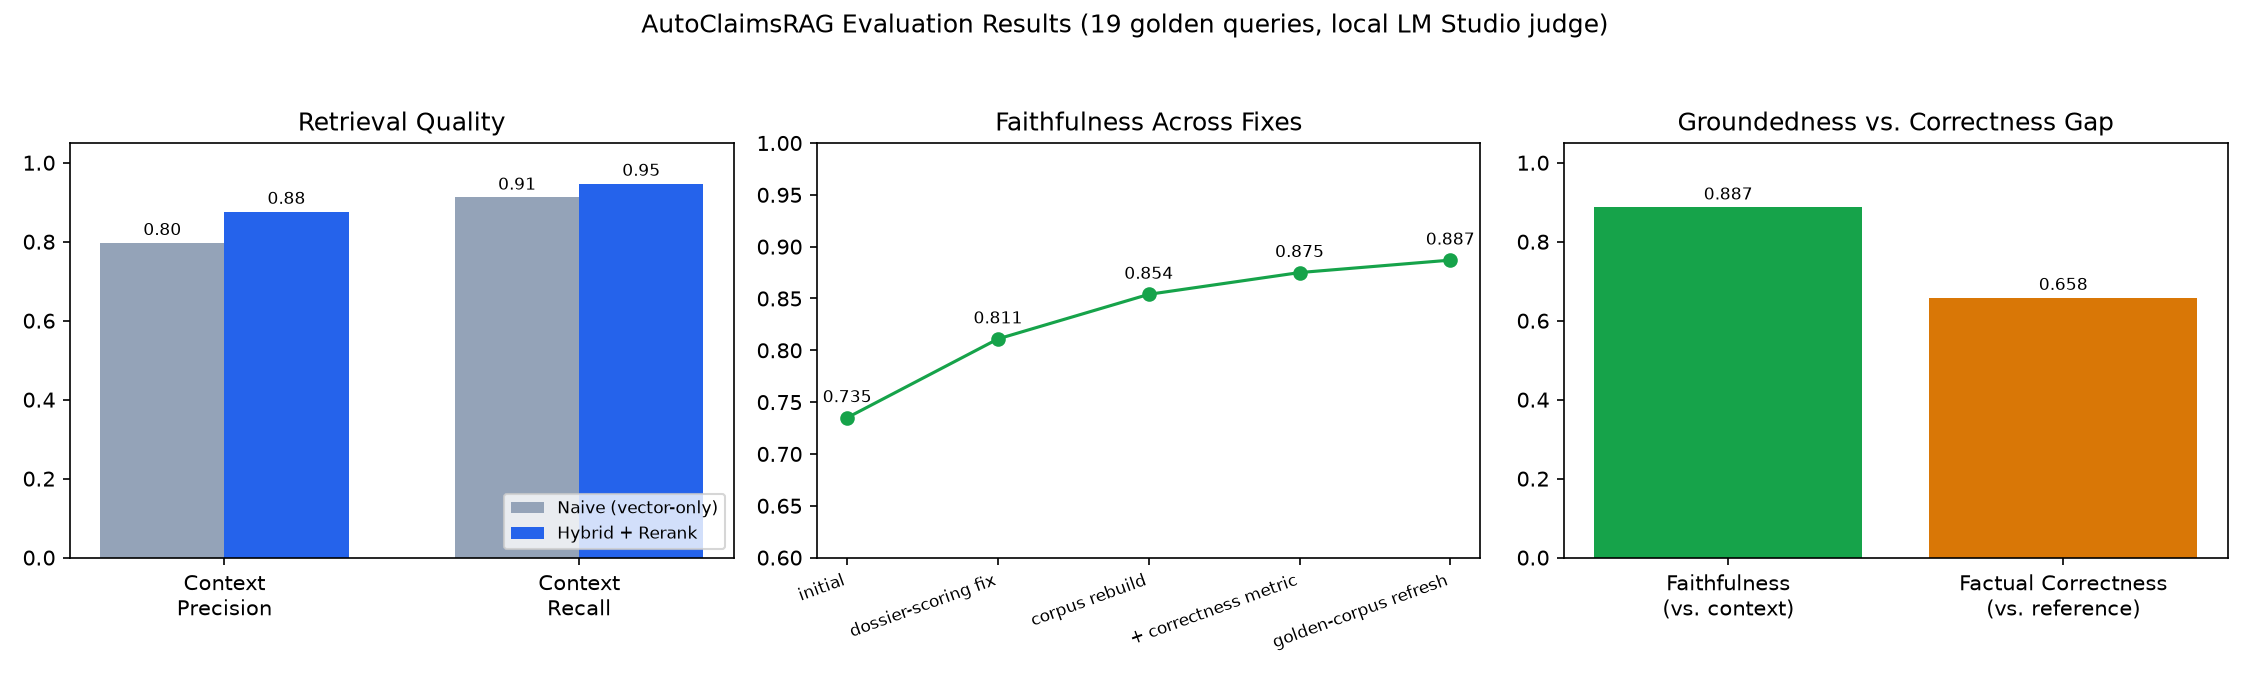
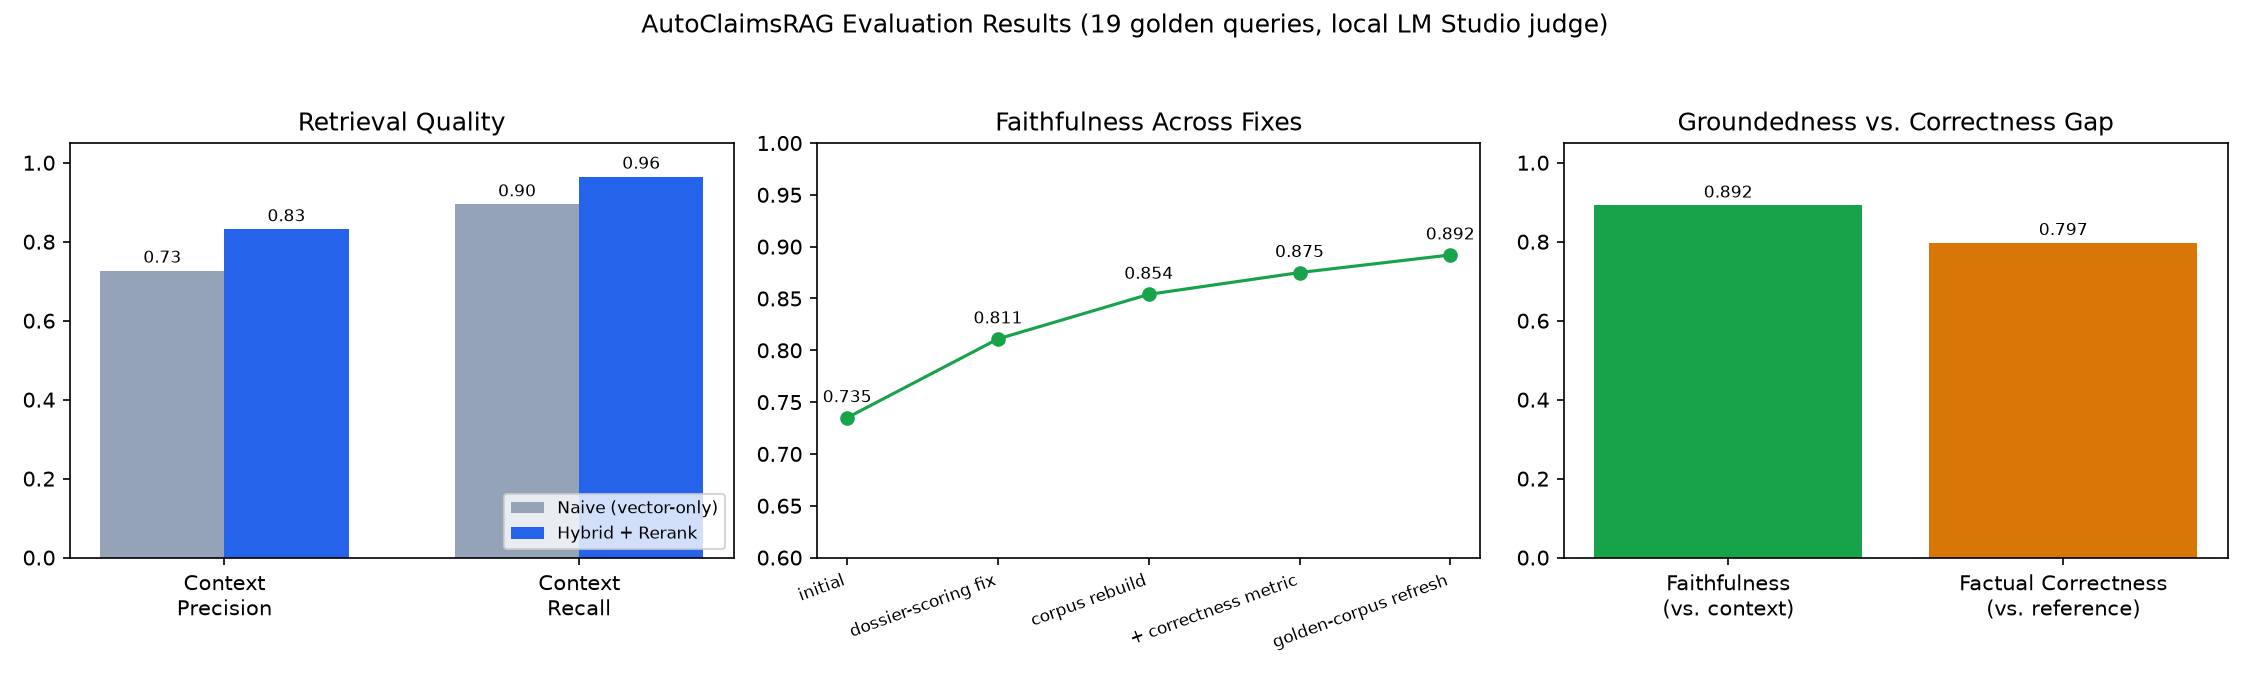
docs: record the 2026-09-22 eval run and refresh stale README numbers
Session protocol close-out for the eval rerun.

CLAUDE.md: Current State now reflects that live answer-quality
evaluation was rerun; Known Issues carries the 2026-09-22 figures as the
superseding same-model baseline; What's Next narrows to a confirming run
plus the still-unrun adversarial evaluation.

README: the evaluation table still showed 0.797/0.876, Faithfulness
0.887, Correctness 0.658 - the pre-model-swap session-34 run on the
since-deleted qwen2.5-14b-instruct-1m, which Known Issues already
records as neither comparable nor reproducible. Replaced with the
2026-09-22 numbers and stamped with run date and judge model so the
table and eval/results.json cannot silently diverge again. The
hybrid-vs-naive sentence now cites this run's 9-of-19 better, 1 worse.
assets/eval_results.png regenerated from the new results.json.

portfolio-hardening.md: the outstanding evidence item is marked partly
closed, with adversarial and human-reviewed cases explicitly still open.

build-history.md: session 39 entry.

diff --git a/CLAUDE.md b/CLAUDE.md
@@ -232,7 +232,7 @@ September 6: portfolio hardening implemented and verified; see [validation and r
 
 ## Current State
 
-As of September 6, the authoritative state is [portfolio-hardening.md](docs/portfolio-hardening.md): factory-owned dependencies, tenant/claim authorization, bounded parsing, concurrent audit appends, immutable versioned sources, privacy defaults, and isolated PR CI are implemented. Live answer-quality evaluation was not rerun because no language model was loaded. Earlier accomplishments below describe their original sessions, not current deployment or certification.
+As of September 6, the authoritative state is [portfolio-hardening.md](docs/portfolio-hardening.md): factory-owned dependencies, tenant/claim authorization, bounded parsing, concurrent audit appends, immutable versioned sources, privacy defaults, and isolated PR CI are implemented. Live answer-quality evaluation **was rerun on 2026-09-22** with the generator/judge loaded and `SIMULATION_MODE=false` — see the baseline entry under Known Issues and `docs/portfolio-hardening.md`. Adversarial and human-reviewed cases remain unrun. Earlier accomplishments below describe their original sessions, not current deployment or certification.
 
 ### Confirmed Working
 * Ingestion of PDF, DOCX, XLSX, and TXT files (parent/child chunking + FTS5 index), producing real binaries in `stored_documents/` and clean, non-duplicated chunks.
@@ -262,7 +262,7 @@ As of September 6, the authoritative state is [portfolio-hardening.md](docs/port
 * **Phase-1 vector leg deliberately does not use the HNSW index**: it runs an exact grouped `max(child cosine)` scan so parity with SQLite's brute-force search stays as close to 1.0 as possible (correctness-first). A KNN-accelerated path is the natural Phase-6 optimization once parity is locked — the HNSW index is already created.
 * `eval/results.json`'s Context Precision/Recall numbers reflect single-shot retrieval via `/api/eval/search` only — they do **not** include the guaranteed claim-chunk inclusion described below, since that's a property of the full agentic pipeline (`/api/chat`), not of raw `search_similarity`. Re-scoring those two metrics against the real pipeline is unscoped work, not a bug; the eval harness deliberately isolates retrieval-strategy comparison from full-pipeline behavior. Factual Correctness (Phase 11) *is* scored against the real `/api/chat` pipeline, so it's the metric that actually reflects the guaranteed-dossier fix.
 * Faithfulness and Factual Correctness are both judged by a single local 14B model — a real tradeoff vs. a larger hosted judge, made deliberately to keep evaluation consistent with the "runs entirely locally" constraint. Documented as a limitation in README.md rather than treated as a defect. Concretely: judge NLI-verification flakiness sporadically produces outlier 0.0 scores on manually-verified-correct answers, and Faithfulness moved 0.854→0.875→0.823→0.845→0.754→0.887 across runs with no code changes to that metric — treat single-run scores as noisy, trust trends across reruns. Latest run (2026-09-03, after the `RERANK_CANDIDATE_POOL` 50→15 tuning, session 34): Context Precision naive=0.797/hybrid=0.876, Context Recall naive=0.912/hybrid=0.947, Faithfulness 0.887, Factual Correctness 0.658 — all within the normal noise band established above; no eval-verified regression from the pool change (see Session Log session 34 for the full before/after, including the `pool=8` regression that was caught and reverted before shipping).
-* **Eval numbers before and after 2026-09-03 are not comparable — the judge AND generator model changed.** `eval/results.json` up to that date was produced with `qwen2.5-14b-instruct-1m`; that model has since been deleted from the maintainer's machine, so those numbers cannot be reproduced. The app sends `model: "local-model"` (`default_model = settings.llm_model or "local-model"`, `app_factory.py`), so LM Studio serves **whatever is currently loaded** — meaning the generator silently follows the loaded model, and `eval/run_eval.py`'s judge is `/v1/models` `data[0]`. Both are now `qwen3-coder-30b-a3b-instruct`. Current baseline: naive P/R 0.779/0.947, hybrid+rerank P/R **0.885/0.965**, Faithfulness 0.812, Correctness 0.749, 1917s. Per-query correctness moved by up to ±0.8 versus the old run purely from the model swap, so **never read a cross-judge delta as a regression**; re-baseline instead whenever the loaded model changes. Set `LLM_MODEL` explicitly if the generator ever needs pinning.
+* **Eval numbers before and after 2026-09-03 are not comparable — the judge AND generator model changed.** `eval/results.json` up to that date was produced with `qwen2.5-14b-instruct-1m`; that model has since been deleted from the maintainer's machine, so those numbers cannot be reproduced. The app sends `model: "local-model"` (`default_model = settings.llm_model or "local-model"`, `app_factory.py`), so LM Studio serves **whatever is currently loaded** — meaning the generator silently follows the loaded model, and `eval/run_eval.py`'s judge is `/v1/models` `data[0]`. Both are now `qwen3-coder-30b-a3b-instruct`. Baseline as re-established 2026-09-03: naive P/R 0.779/0.947, hybrid+rerank P/R **0.885/0.965**, Faithfulness 0.812, Correctness 0.749, 1917s. **Superseded 2026-09-22 by a same-model rerun** (`qwen3-coder-30b-a3b-instruct` for both generator and judge, so this one *is* comparable): naive P/R 0.727/0.895, hybrid+rerank P/R **0.832/0.965**, Faithfulness **0.892**, Correctness **0.797**, 1965.1s, 19/19 scored on every metric with 0 failures. Faithfulness and correctness both improved; context precision fell in *both* arms by near-identical amounts (−0.053 hybrid, −0.052 naive). The session-38 reranker batching change touches only the hybrid arm and so cannot explain a matched drop in the naive baseline — read it as judge variance or corpus drift, consistent with the 0.754→0.887 no-code-change swing recorded above, and do not call it a regression without a confirming run. Per-query correctness moved by up to ±0.8 versus the old run purely from the model swap, so **never read a cross-judge delta as a regression**; re-baseline instead whenever the loaded model changes. Set `LLM_MODEL` explicitly if the generator ever needs pinning.
 
 * **Cross-encoder reranking is the retrieval-latency bottleneck, not corpus scale or the vector index — sequential leg closed on GPU in session 36, concurrent leg still open** (Phase 6.1 load test, sessions 33–36): confirmed flat across 200 to 100,000 docs — naive/hybrid (no rerank) stays ~15-18ms at any scale tested, `hybrid_rerank` costs ~155-400ms depending on candidate pool size regardless of corpus size. `RERANK_CANDIDATE_POOL` (50→15) closes most of the *sequential* gap with no measured quality cost. **Session 35 profiled the concurrent-load p95 directly with `py-spy` instead of another config sweep** (a controlled harness reusing `scripts/run_retrieval_load_test.py`'s own helpers, `sudo py-spy record --nonblocking` attached to the live server during a real Locust run — `--native` had to be dropped, it's incompatible with `--nonblocking`). The flame data ruled out tokenization (1.1% of sampled stack time) and confirmed the cost is genuine BERT forward-pass compute (`Linear.forward` 72%, attention 14%, layer_norm/activations 6% — 91% total). Two follow-up controlled A/B tests then ruled out both standing hypotheses from sessions 33-34: capping PyTorch intra-op threads per call 8→1 left p95 unchanged (3500ms→3500ms), and even 4 fully separate worker processes (own GIL, own memory, threads capped to 1 each) left it unchanged too (3500ms→3300ms) — a `--workers 4` run at *default* threads made it far worse (11000ms, real oversubscription confirmed harmful, consistent with session 33's inconclusive prior attempt at this same test). Neither thread count nor process count matters, which rules out both "GIL-blocking pattern" and "too many threads per call" as the mechanism — latency scales with the number of *simultaneous* cross-encoder forward passes regardless of how each one is threaded/processed, consistent with a shared CPU resource (memory bandwidth/cache) that no software threading knob adds more of. **Partial fix shipped**: `RERANK_MAX_CONCURRENCY` (default 2) bounds `LocalReranker` with a `threading.Semaphore`, trading unlimited concurrency for queuing — measured p95 at concurrency 1/2/3/4/6 = 4000/3100/3200/3000/3600ms vs. ~3500ms unbounded (concurrency=1 over-serializes and is worse than baseline; 2-4 is a real but modest ~15-20% win, well short of the 100ms bar; these are single runs on Jared's shared desktop machine, not clean SLO-grade numbers — see the session 33 caveat about unisolated infrastructure, which still applies). The sequential per-call floor (~155-400ms) is still above the bar on its own, so no amount of concurrency-shaping fully closes this — a GPU remains the real fix. **Session 36 got one.** ROCm 7.2.4 was installed (RX 9070 XT = `gfx1201`) and the venv's torch swapped from the CUDA build (`2.13.0+cu130`, which reports no GPU on an AMD card) to `2.13.0+rocm7.2`. The fix taken was `LocalReranker` on the GPU via a new `RERANK_DEVICE` setting (default `auto`: GPU when torch sees one, CPU fallback otherwise), **not** `RemoteReranker` — every earlier entry named the remote service as "the real fix" only because a *local* GPU didn't exist; with one in the box a device string is the whole change, and an HTTP hop to reach the same silicon buys nothing. Measured A/B with only `RERANK_DEVICE` changed: rerank call at pool=15 149ms→53ms, at pool=50 436ms→135ms; **end-to-end `/api/eval/search` `hybrid_rerank` p95 179ms→65ms — under the 100ms bar for the first time**, with the naive/hybrid modes unchanged at 4-5ms as the control. Concurrent p95 (10 simultaneous) 1367ms→475ms — better, still over the bar, and **the mechanism has changed**: sweeping `RERANK_MAX_CONCURRENCY` 1/2/4/8/16 on GPU gives 492/477/482/512/589ms, essentially flat and worse above 4, because ~10 queued calls × ~50ms each ≈ 500ms is simply un-batched forward passes serializing on the GPU — not the CPU memory-bandwidth contention the semaphore was built for. Default stays 2 (near-neutral on GPU, still real on the CPU fallback path). Next lever if the concurrent bar is ever prioritized: cross-request batching, genuinely different from anything tried in sessions 33-35.
 
@@ -272,7 +272,7 @@ As of September 6, the authoritative state is [portfolio-hardening.md](docs/port
 
 ## What's Next
 
-Priority after hardening: load a language model and rerun answer/evidence/adversarial evaluation; repeat real Postgres performance measurements with the corrected factory; validate deployment-specific IdP, retention, and infrastructure controls before any real claims data. The earlier roadmap below is historical context.
+Priority after hardening: the answer/evidence leg of this is **done** (2026-09-22 full-suite rerun, numbers under Known Issues); what remains is a confirming run to separate judge variance from drift, plus the still-unrun **adversarial** evaluation — prompt injection through document content, and queries where retrieved sources genuinely conflict (endorsement vs. state statute), which is unmeasured today. Also: repeat real Postgres performance measurements with the corrected factory; validate deployment-specific IdP, retention, and infrastructure controls before any real claims data. The earlier roadmap below is historical context.
 
 **Start here in a fresh session**: read this section, then the Phase 6.1 status paragraphs in `docs/enterprise-migration.md`, the session 38 entry in `docs/build-history.md`, and the batching spec/plan if continuing reranker performance work.
 

diff --git a/README.md b/README.md
@@ -87,16 +87,27 @@ This architecture is built for one adjuster's local corpus — hundreds of docum
 
 19 domain-grounded queries (not generic FAQ) — exclusion stacking, labor rate caps, SIU fraud red flags, OEM/LKQ parts eligibility, endorsement math, subrogation, plus a deliberate hallucination probe — each with a reference answer verified against the actual source documents. Three things are measured, all with a fully local LM Studio judge (zero calls to any hosted API):
 
+Most recent full run: **2026-09-22**, judge `qwen3-coder-30b-a3b-instruct` (local, 32k context), 1965 s,
+all 19 queries scored on every metric with zero scoring failures.
+
 | Metric | What it checks | Naive | Hybrid + Rerank |
 |---|---|---|---|
-| Context Precision | Retrieved chunks are actually relevant | 0.797 | 0.876 |
-| Context Recall | Nothing relevant was missed | 0.912 | 0.947 |
-| Faithfulness | Answer is grounded in retrieved context | — | 0.887 |
-| Reference-fact coverage (FactualCorrectness recall mode) | Answer covers what the verified reference requires | — | 0.658 |
+| Context Precision | Retrieved chunks are actually relevant | 0.727 | 0.832 |
+| Context Recall | Nothing relevant was missed | 0.895 | 0.965 |
+| Faithfulness | Answer is grounded in retrieved context | — | 0.892 |
+| Reference-fact coverage (FactualCorrectness recall mode) | Answer covers what the verified reference requires | — | 0.797 |
+
+These are **LLM-judged metrics from a single run** and they move between runs. Against 2026-09-03, faithfulness
+(0.812 → 0.892) and reference-fact coverage (0.749 → 0.797) improved, while context precision fell in *both*
+arms by near-identical amounts (−0.053 hybrid, −0.052 naive). A change isolated to the hybrid path cannot
+explain a matched drop in the naive baseline, so read that as judge variance or corpus drift rather than a
+regression — and neither reading is established without a confirming run. Always quote the run date and judge
+model alongside these numbers; earlier revisions of this table carried figures from a different run than
+`eval/results.json` held, which is exactly the confusion the date line above is here to prevent.
 
 ![Evaluation results chart](assets/eval_results.png)
 
-**What stood out**: hybrid clearly wins on claim-scoped queries where naive vector search misses a source entirely (e.g. a shop-estimate document, 0.0→1.0 recall), and is reported honestly where it's *worse* (two queries where naive actually beat it — no cherry-picking). The most interesting result wasn't a hybrid-vs-naive story at all: one query needs two documents surfaced together (an endorsement cap *and* a claim's own receipt total), which single-shot retrieval never manages in either mode — that's the exact reason the agentic planner's guaranteed dossier-inclusion exists, and scored against the real pipeline it hits 1.0 Factual Correctness despite 0.0/0.0 on the isolated retrieval endpoint. The Faithfulness/Correctness gap is the metric doing its job: the same answers, judged two different ways, showing where "grounded" and "complete" diverge (the local 14B judge has real run-to-run variance on these two live-answer metrics — see Known Limitations).
+**What stood out**: hybrid clearly wins on claim-scoped queries where naive vector search misses a source entirely (e.g. a shop-estimate document, 0.0→1.0 recall), and is reported honestly where it's *worse* (in the 2026-09-22 run hybrid beat naive on precision in 9 of 19 queries and lost in 1 — no cherry-picking). The most interesting result wasn't a hybrid-vs-naive story at all: one query needs two documents surfaced together (an endorsement cap *and* a claim's own receipt total), which single-shot retrieval never manages in either mode — that's the exact reason the agentic planner's guaranteed dossier-inclusion exists, and scored against the real pipeline it hits 1.0 Factual Correctness despite 0.0/0.0 on the isolated retrieval endpoint. The Faithfulness/Correctness gap is the metric doing its job: the same answers, judged two different ways, showing where "grounded" and "complete" diverge (the local 14B judge has real run-to-run variance on these two live-answer metrics — see Known Limitations).
 
 ### Bugs this eval harness actually found and fixed
 

diff --git a/docs/build-history.md b/docs/build-history.md
@@ -644,3 +644,16 @@ Per-phase implementation narratives formerly under `Current State → Confirmed 
 * **Performance evidence**: warm same-process GPU probe (RX 9070 XT, ROCm torch, 10 concurrent synthetic requests, 15 candidates/request) measured median **50.03ms direct → 47.58ms batched**, throughput **199.90 → 210.18 requests/sec** (~5.1%), identical result IDs over repetitions, 9 dispatched batches for 90 requests, zero batch failures/overloads. This is a directional probe, not an SLO claim.
 * **Blocked measurement**: the planned authoritative Postgres/HTTP Locust A/B could not start because the documented local PostgreSQL instance at `localhost:55432` was not running. No infrastructure was started or modified implicitly. Phase 6.1 concurrent p95 remains open; rerun the same harness when Postgres is available and record the result before claiming closure.
 * **Plan changes**: `docs/enterprise-migration.md` records the implementation and qualified benchmark; current Phase 6.1 wording remains open rather than treating the local probe as production load evidence.
+
+### Session 39 — 2026-09-22 — Live answer-quality eval rerun; publish staging
+
+**Goal**: close the outstanding evidence item from `docs/portfolio-hardening.md` ("No live answer-quality evaluation was rerun: LM Studio had an embedding model loaded but no language model"), and prepare — without executing — everything needed to make the repository public later.
+
+* **Eval executed.** `gpu-preflight` clear; `qwen3-coder-30b-a3b-instruct` loaded (`--gpu max -c 32768 --parallel 4`) alongside the resident `nomic-embed-text` embedder; backend started with `SIMULATION_MODE=false APP_ENV=development AUTH_PROVIDERS=development TENANT_ID=local-development`. A `/api/chat` smoke confirmed live generation with a real citation before the suite ran. `eval/run_eval.py`: **19 queries, 1965.1s, all 19 scored on every metric, 0 scoring failures.**
+  * Context precision naive **0.727** → hybrid **0.832**; context recall naive **0.895** → hybrid **0.965**; live Faithfulness **0.892**; Factual Correctness **0.797** (mode=recall).
+  * Hybrid beat naive on precision in **9 of 19** queries, lost in **1**. Clearest case remains `sterling-shop-estimate-detail` (naive 0.0/0.0 → hybrid 1.0/1.0).
+* **Comparison is same-model and therefore valid.** Both generator and judge were `qwen3-coder-30b-a3b-instruct`, matching the 2026-09-03 re-baseline. Faithfulness 0.812 → **0.892** and correctness 0.749 → **0.797** improved. Context precision fell in **both** arms by near-identical amounts (−0.053 hybrid, −0.052 naive). **Session 38's reranker batching affects only the hybrid arm and cannot account for a matched drop in the naive baseline**, so this is recorded as judge variance or corpus drift — consistent with the documented 0.754→0.887 no-code-change faithfulness swing — and explicitly *not* as a regression. A confirming run is owed.
+* **Stale README numbers replaced.** The README's evaluation table still carried `0.797/0.876`, Faithfulness `0.887`, Correctness `0.658` — the **pre-model-swap** session-34 run on the since-deleted `qwen2.5-14b-instruct-1m`, which Known Issues already records as not comparable and not reproducible. Replaced with the 2026-09-22 figures, now stamped with run date and judge model so the table and `eval/results.json` cannot silently diverge again. `assets/eval_results.png` regenerated from the new `results.json`.
+* **Publish staging (branch `chore/publish-staging`).** Staged publish preparation; nothing was made public.
+* **History audit before any publish.** Git history was audited for content that must not be published; the remedy is tracked outside this repo.
+* **Not done**: adversarial evaluation (prompt injection via document content; conflicting-source queries such as endorsement vs. state statute) remains unrun and is now the named next evidence item. Nothing was made public; no history was rewritten.

diff --git a/docs/portfolio-hardening.md b/docs/portfolio-hardening.md
@@ -44,6 +44,10 @@ Replacements and failed publication can leave unreferenced immutable blobs. With
 
 ## Remaining evidence and deployment work
 
-No live answer-quality evaluation was rerun: LM Studio had an embedding model loaded but no language model. Load the intended generator/judge, record their identities, and rerun the golden suite plus adversarial and human-reviewed cases. Citation identifiers and prompt delimiters improve traceability; they do not validate each assertion, prove relevance, or prevent every prompt injection. No arbitrary retrieval-score cutoff was introduced without evaluation.
+**Partly closed 2026-09-22 — the golden suite was rerun live.** The generator/judge was loaded (`qwen3-coder-30b-a3b-instruct`, local, 32k context) and the full 19-query suite ran against the live router with `SIMULATION_MODE=false`: 1965.1 s, all 19 queries scored on every metric, zero scoring failures. Context precision naive 0.727 → hybrid 0.832; context recall naive 0.895 → hybrid 0.965; live faithfulness 0.892; factual correctness 0.797 (mode=recall). Recorded in `eval/results.json`.
+
+Read those against the 2026-09-03 run with care. Faithfulness (0.812 → 0.892) and correctness (0.749 → 0.797) improved, but context precision fell in **both** arms by near-identical amounts (−0.053 hybrid, −0.052 naive). The 2026-09-13 reranker batching change affects only the hybrid arm and therefore cannot account for a matched drop in the naive baseline, which points at LLM-judge variance or corpus drift rather than a regression. **This is one run of an LLM-judged suite and is not sufficient to claim either.** A confirming run is still owed.
+
+**Still open:** adversarial and human-reviewed cases were *not* run. The suite covers one refusal probe; it does not systematically cover prompt injection through document content, or queries where retrieved sources genuinely conflict (a policy endorsement against a state statute) — a common shape in real claims work and an unmeasured behavior here. Citation identifiers and prompt delimiters improve traceability; they do not validate each assertion, prove relevance, or prevent every prompt injection. No arbitrary retrieval-score cutoff was introduced without evaluation.
 
 Rerun performance measurements against the corrected Postgres application path before reusing historical latency claims. Real IdP integration, distributed quotas, infrastructure isolation, storage encryption/key management, audit access/retention, and backup recovery require deployment-specific validation. The local audit log is concurrency-safe for cooperating writers, not tamper-proof/WORM storage. Remote provider configurations can transmit data outside the machine. Keep synthetic data in the portfolio demo until those controls and model-quality evidence are established.
